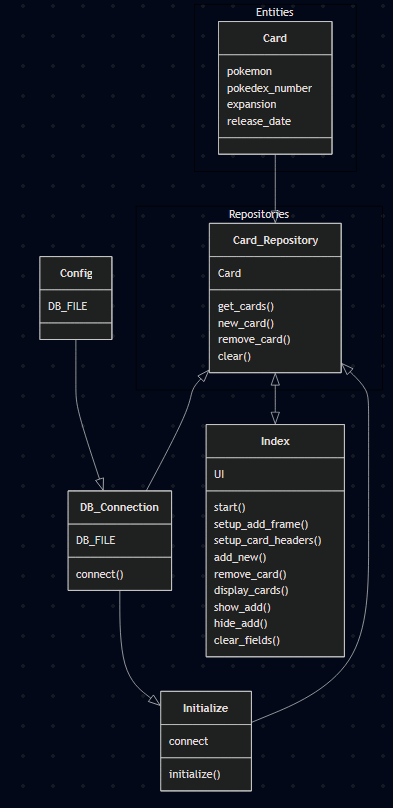
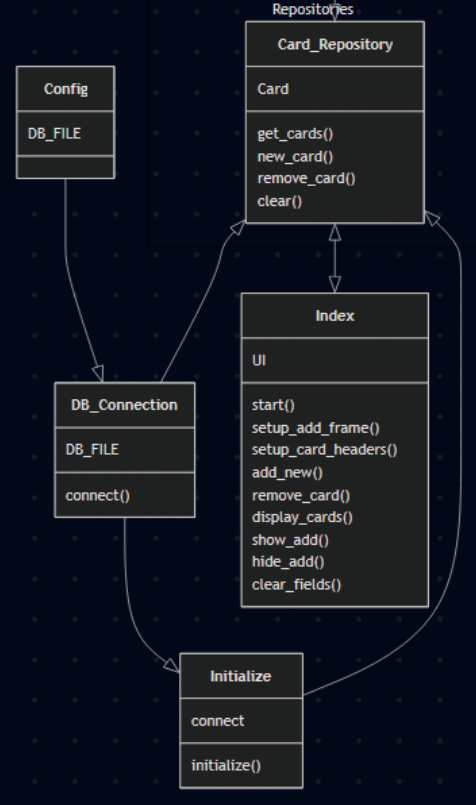
Lisää sovelluksen arkkitehtuurista

diff --git a/dokumentaatio/arkkitehtuuri.md b/dokumentaatio/arkkitehtuuri.md
@@ -1,4 +1,9 @@
-Luokkarakenne selviää seuraavasta kuvasta  
+## Käyttöliittymä
+Käyttöliittymä sisältää vain yhden näkymän, johon lisätään sisältöä sen ilmestyessä. "Add Card" tuo esille tekstikentät, joiden sisällön perusteella luodaan uusi kortti. Omistettujen korttien määrä näkyy myös oikeasta yläkulmasta. Kortit tulevat automaattisesti näkyviin, jos niitä on olemassa. Jos niitä taas ei ole, korttilista poistuu näkyvistä. Alla kuva kortin lisäysnäkymästä:
+![Käyttöliittymä](./kuvat/User_Interface.PNG)
+
+## Luokkarakenne
+Luokkarakenne selviää alla olevasta kuvasta. Config alustaa tietokantatiedoston, jolla on sitten DB_Connection-tiedoston kautta yhteys korttirepositorioon. Initialize vielä alustaa repositorion, jos tietokannassa ei ole mitään olemassa. Repositorio ja käyttöliittymä toisensa kanssa korttien lisäämisessä ja poistamisessa sekä käyttäjän näkymän muokkaamisessa.
 ![Luokkarakenne](./kuvat/Class_Diagram.PNG)  
   
 Sekvenssikaavio, joka esittelee kortin lisäämistä ja poistamista  

diff --git a/dokumentaatio/changelog.md b/dokumentaatio/changelog.md
@@ -24,3 +24,4 @@
 - Lisätty ohjeistavat oletustekstit tekstikenttiin
 - Lisätty konfirmaatiokenttä kortin poistaessa
 - Lisätty docstring-dokumentaatio relevantteihin tiedostoihin
+- Muokattu ja lisätty testejä
